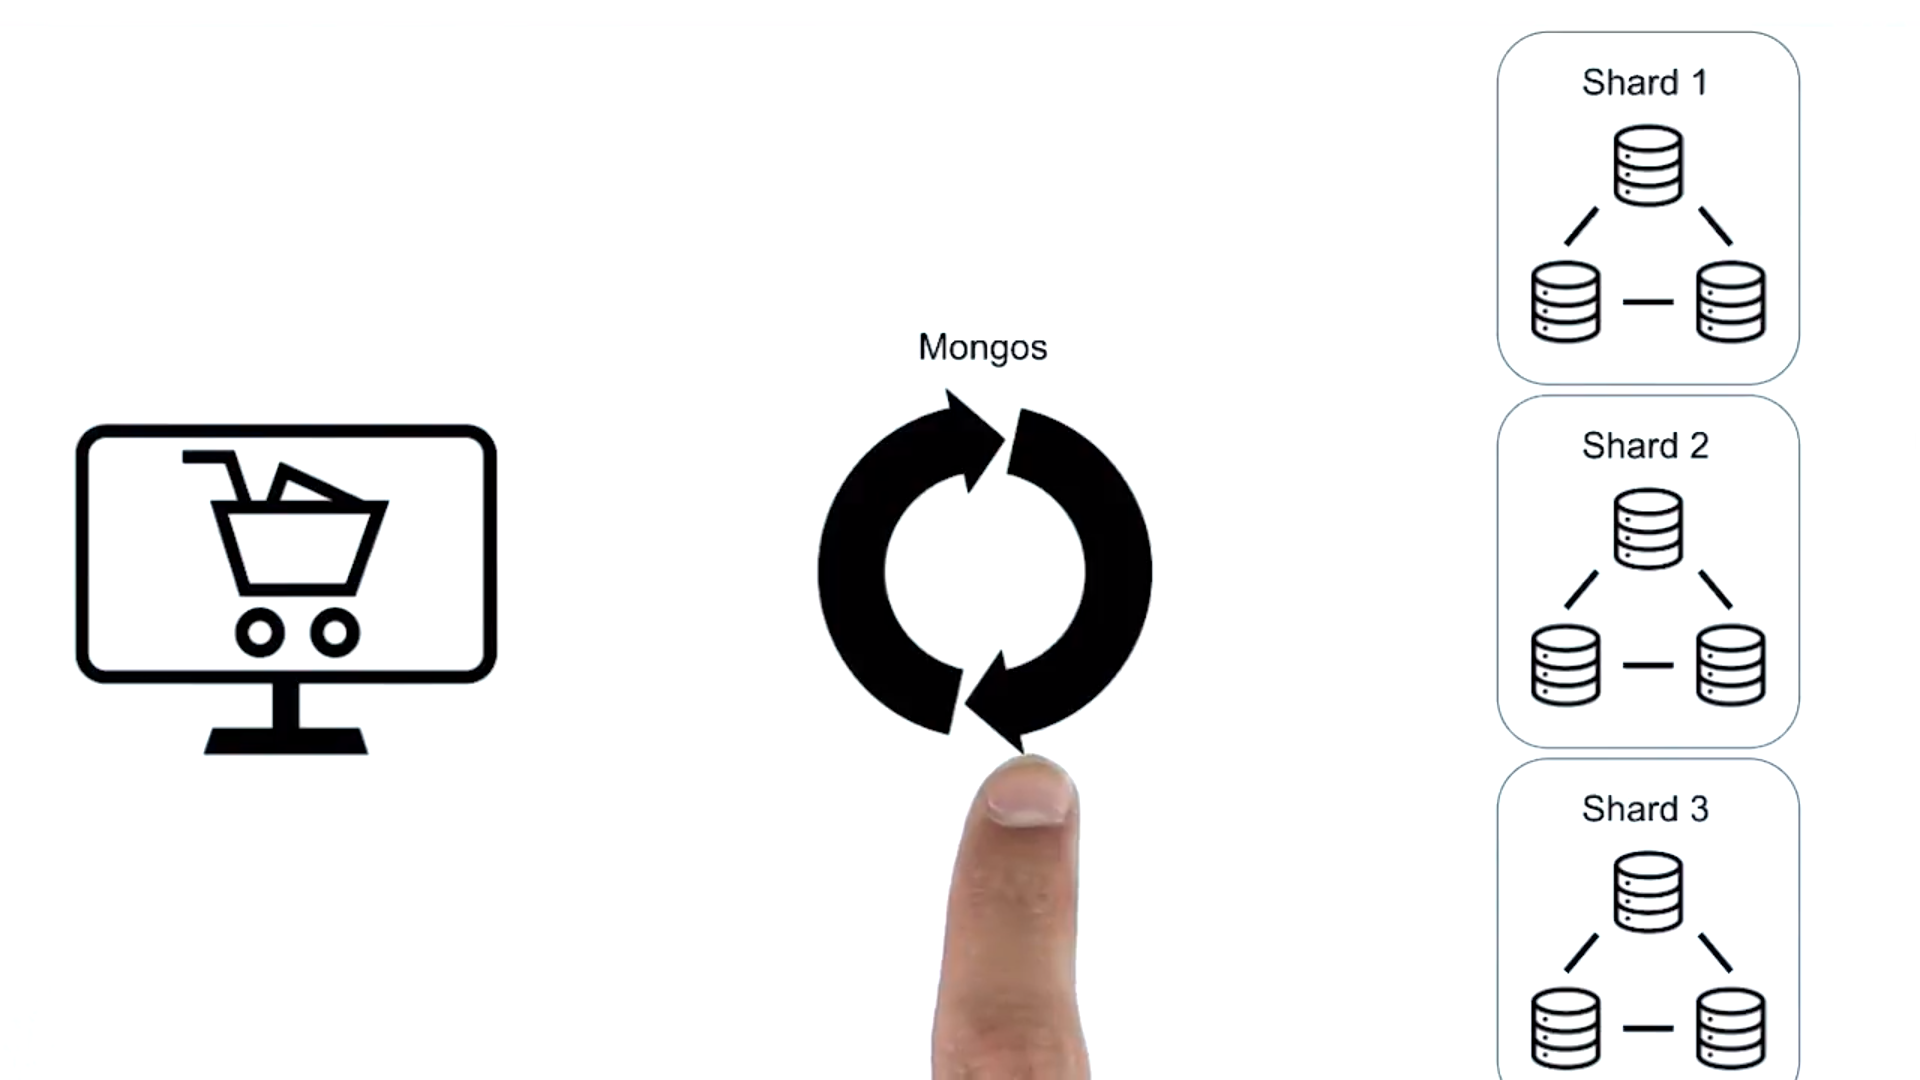
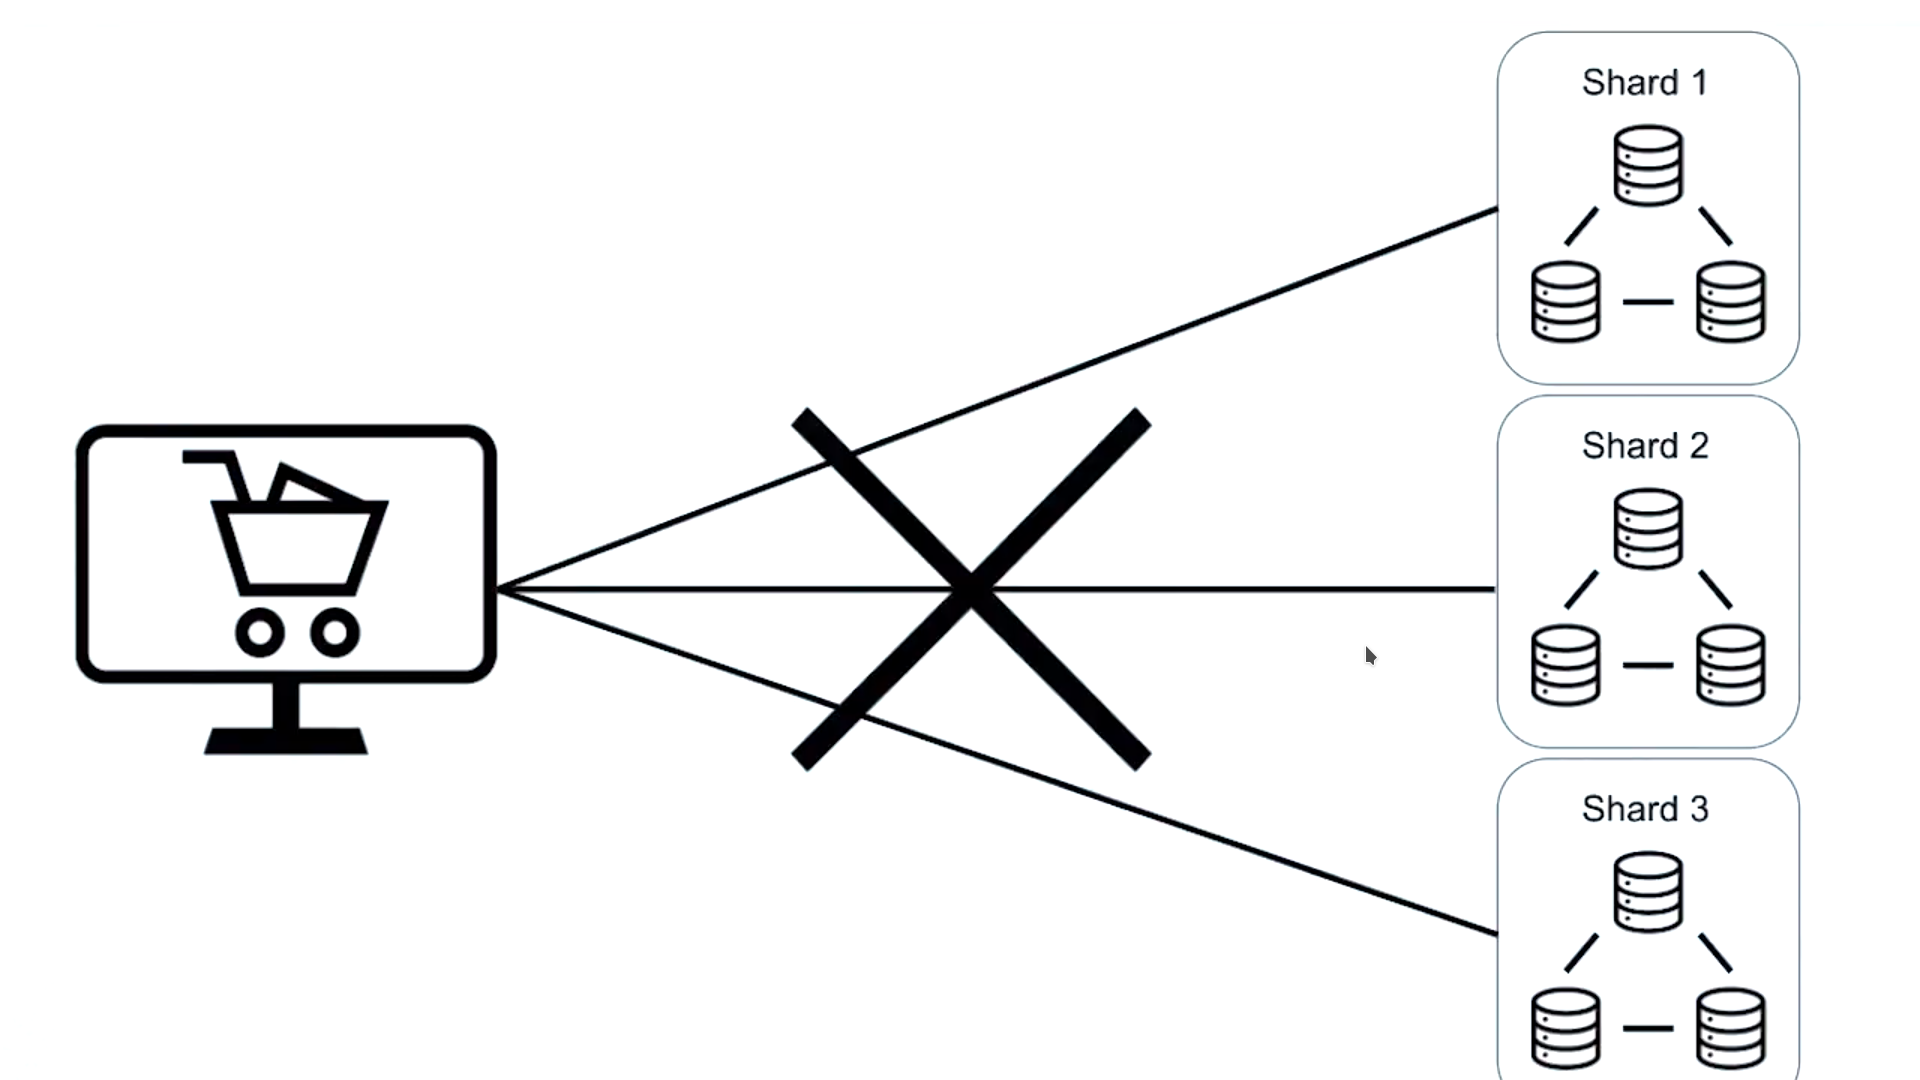
Adding notes from cluster adminstaration course | MongoDB University

diff --git a/cluster_adminstration.md b/cluster_adminstration.md
@@ -1,4 +1,4 @@
-## Sharding:
+b## Sharding:
 - Until now, It's super easy to store an entire data set on one server, but that's not got if this instance failed at some point!!
 - That's why they invented the term "Replica Set" which is actually a bunch of servery containing the same data set, it one failed the others do the work!!
 - When our application grows, the entire data set in each server grows and at this point we will have to increase the power of server hardware (Vertical scalling). But, at some point the hardware scalling can't increase more(There is limit, right?) and of course it's super expensive.
@@ -48,4 +48,27 @@ So, in short:
 <img src="https://raw.githubusercontent.com/AhmedElgaidi/my-mongodb-university-notes/main/public/cluster_adminstration/6.png"/>
 <img src="https://raw.githubusercontent.com/AhmedElgaidi/my-mongodb-university-notes/main/public/cluster_adminstration/7.png"/>
 <img src="https://raw.githubusercontent.com/AhmedElgaidi/my-mongodb-university-notes/main/public/cluster_adminstration/8.png"/>
+<img src="https://raw.githubusercontent.com/AhmedElgaidi/my-mongodb-university-notes/main/public/cluster_adminstration/9.png"/>
+<img src="https://raw.githubusercontent.com/AhmedElgaidi/my-mongodb-university-notes/main/public/cluster_adminstration/10.png"/>
+<img src="https://raw.githubusercontent.com/AhmedElgaidi/my-mongodb-university-notes/main/public/cluster_adminstration/11.png"/>
+<img src="https://raw.githubusercontent.com/AhmedElgaidi/my-mongodb-university-notes/main/public/cluster_adminstration/12.png"/>
+<img src="https://raw.githubusercontent.com/AhmedElgaidi/my-mongodb-university-notes/main/public/cluster_adminstration/13.png"/>
+<img src="https://raw.githubusercontent.com/AhmedElgaidi/my-mongodb-university-notes/main/public/cluster_adminstration/14.png"/>
+<img src="https://raw.githubusercontent.com/AhmedElgaidi/my-mongodb-university-notes/main/public/cluster_adminstration/15.png"/>
+<img src="https://raw.githubusercontent.com/AhmedElgaidi/my-mongodb-university-notes/main/public/cluster_adminstration/16.png"/>
+<img src="https://raw.githubusercontent.com/AhmedElgaidi/my-mongodb-university-notes/main/public/cluster_adminstration/17.png"/>
+<img src="https://raw.githubusercontent.com/AhmedElgaidi/my-mongodb-university-notes/main/public/cluster_adminstration/18.png"/><br/>
 
+#### Explanation:
+- The most importnat info of the sharded cluster is we can add any number of shards we want, and because of this, the client application can't communicate directly with the shards, that's whwere the benifit of "mongos" appears.
+- A router process called "mongos" is established.
+- The client (browser, etc...) connect with the mongos, then the mongose direct the query to the appropriate shard.
+- But, how does mongose deliver the query to the correct shard?
+- Let's say we divied/ sharded our data set into 3 shards according to the username alphapet (It's like indexing, to help in searching | metadata). 
+- Mongos will need this data to direct the query to the correcct shard, let's say the client want to get the document with the usrname "Suarez", it started with "S", then mongos direct the query directly to teh cluster that have documents with usernames starts with "s"
+- MongoDB offers high availability, so there may be different clients connecting to the mongose instances at the same time (and they just direct the query), of even absolute diffent application using our data set!!! just the smae logic
+**[Note]:** The metadata is not stored on the mongos!! It's stored in a config server, so once the client connect to mongos, mongos check metadata from the "config server" and according to the result direct to the correct shard
+<br/>
+**[Note]:** The config server is continously updated/ changed according to the data in the shards!!! But, why does it change in the first place? let's say we have big usernames starting with "S", so the shard number3 is really big and loaded and the shard 1,2 is not. The **config Server** decided which data should be moved => the metadata changed also to make room in the shard 3 for the users starting with "S"
+<br/>
+**[Note]:** During aggregation, let's say that the client wants to get all the users with age 28-30. We are sharding our database/ data set according to the username, right? So, how could this query be done? Mongos direct the query to each shard and merge the all returned docs from all shards to the client and that's actually what happens behins the seens on every query!!!
